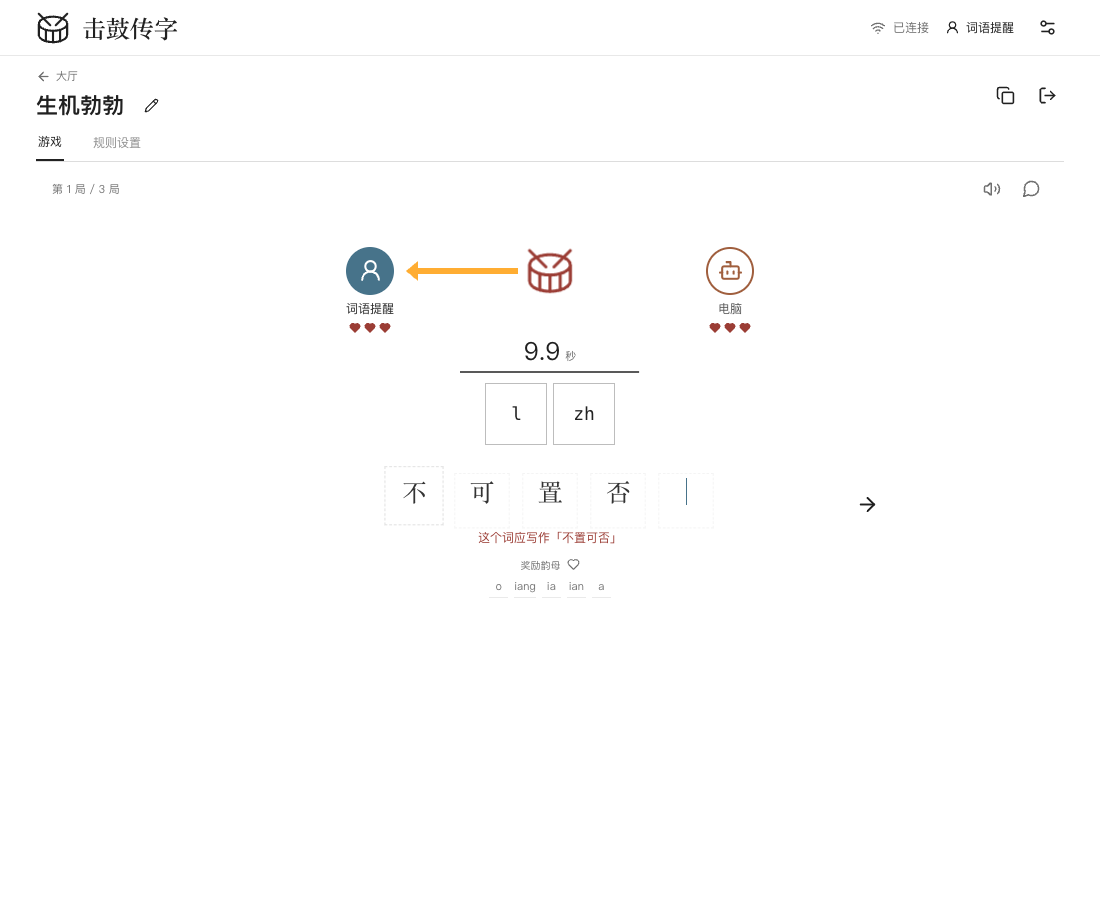
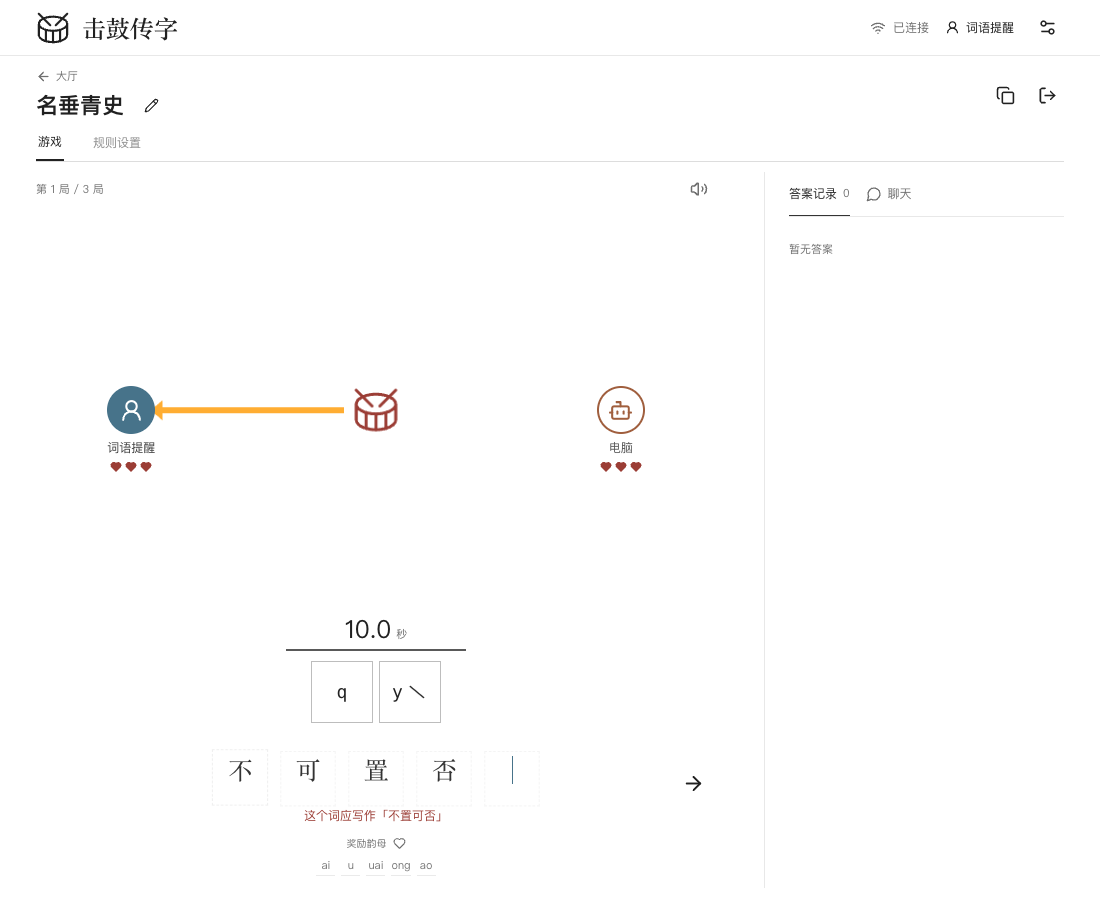
feat: expand responsive room layout and activity sidebar

diff --git a/src/styles.css b/src/styles.css
@@ -33,7 +33,7 @@ h2 { font-size: 17px; font-weight: 600; }
 h3 { font-size: 13px; font-weight: 600; }
 .muted { color: var(--muted); }
 .app-shell { min-height: 100dvh; display: flex; flex-direction: column; }
-.site-header { height: 80px; width: min(1256px, 100%); padding: 0 36px; margin: 0 auto; display: flex; align-items: center; justify-content: space-between; gap: 20px; border-bottom: 1px solid var(--line); }
+.site-header { height: 80px; width: 100%; padding: 0 36px; margin: 0 auto; display: flex; align-items: center; justify-content: space-between; gap: 20px; border-bottom: 1px solid var(--line); }
 .brand { display: inline-flex; align-items: center; gap: 12px; flex-shrink: 0; }
 .brand > span { font: 700 24px 'Noto Serif SC', 'Songti SC', SimSun, serif; }
 .drum-mark { flex-shrink: 0; }
@@ -47,10 +47,13 @@ h3 { font-size: 13px; font-weight: 600; }
 .primary-button:hover:not(:disabled) { background: #414141; border-color: #414141; }
 .secondary-button { background: #fff; color: var(--ink); border: 1px solid #d7d7d7; }
 .secondary-button:hover:not(:disabled) { background: var(--wash); }
-.notice-banner { width: min(1184px, calc(100% - 72px)); min-height: 43px; margin: 16px auto 0; padding: 5px 10px 5px 14px; background: #f5f5f5; border-left: 2px solid #999; display: flex; align-items: center; justify-content: space-between; gap: 10px; font-size: 12px; }
+.notice-banner { width: calc(100% - 72px); min-height: 43px; margin: 16px auto 0; padding: 5px 10px 5px 14px; background: #f5f5f5; border-left: 2px solid #999; display: flex; align-items: center; justify-content: space-between; gap: 10px; font-size: 12px; }
 .notice-banner > span { overflow-wrap: anywhere; }
 .notice-error { border-left-color: #262626; }
-.lobby-page, .room-page { width: min(1184px, calc(100% - 72px)); margin: 0 auto; padding: 45px 0 70px; flex: 1; }
+.lobby-page, .room-page { width: calc(100% - 72px); margin: 0 auto; padding: 24px 0; flex: 1; }
+.lobby-page { display: flex; flex-direction: column; }
+.lobby-cards { flex: 1; align-content: start; }
+.lobby-cards:has(.empty-lobby) { align-content: stretch; }
 .page-heading { display: flex; align-items: center; justify-content: space-between; gap: 20px; margin-bottom: 34px; }
 .page-heading-actions, .empty-actions { display: flex; gap: 8px; flex-wrap: wrap; justify-content: flex-end; }
 .eyebrow { font-family: 'Noto Serif SC', 'Songti SC', serif; color: #898989; font-size: 12px; display: block; margin-bottom: 6px; }
@@ -73,10 +76,10 @@ h3 { font-size: 13px; font-weight: 600; }
 .empty-lobby { min-height: 325px; display: flex; flex-direction: column; align-items: center; justify-content: center; gap: 20px; color: #858585; }
 .empty-lobby .drum-mark { color: #d0d0d0; }
 .empty-lobby p { font-size: 13px; }
-.site-footer { width: min(1184px, calc(100% - 72px)); margin: auto auto 0; padding: 20px 0 26px; display: flex; justify-content: flex-end; align-items: center; color: #a0a0a0; font-size: 11px; border-top: 1px solid var(--line); }
+.site-footer { width: calc(100% - 72px); margin: auto auto 0; padding: 20px 0 26px; display: flex; justify-content: flex-end; align-items: center; color: #a0a0a0; font-size: 11px; border-top: 1px solid var(--line); }
 .site-footer button { font-size: 11px; color: #999; padding: 0; }
 .site-footer button:hover { color: #333; }
-.room-page { padding-top: 24px; }
+.room-page { padding-top: 24px; display: flex; flex-direction: column; }
 .room-heading { display: flex; align-items: center; justify-content: space-between; gap: 20px; margin-bottom: 24px; }
 .back-button { display: inline-flex; align-items: center; gap: 5px; padding: 0; font-size: 11px; color: #8a8a8a; margin-bottom: 11px; }
 .room-heading h1 { font-size: 22px; display: flex; align-items: center; gap: 10px; overflow-wrap: anywhere; }
@@ -284,7 +287,7 @@ h3 { font-size: 13px; font-weight: 600; }
 .chat-form input:focus { outline: none; }
 .chat-form:focus-within { outline: 1px solid #555; }
 .chat-form button { width: 33px; min-width: 33px; display: flex; justify-content: center; align-items: center; padding: 0; }
-.room-settings-layout { max-width: 900px; }
+.room-settings-layout { flex: 1; min-width: 0; display: flex; flex-direction: column; }
 .settings-heading { display: flex; align-items: center; justify-content: space-between; gap: 10px; margin-bottom: 22px; }
 .settings-heading > span { font-size: 11px; }
 .settings-section { padding: 22px 0; border-bottom: 1px solid var(--line); }
@@ -452,6 +455,27 @@ h3 { font-size: 13px; font-weight: 600; }
 .room-game-shell .room-layout { flex: 1; min-height: 0; }
 .room-game-shell .activity-area { max-height: none; min-height: 0; }
 .room-game-shell .history-list, .room-game-shell .chat-list { min-height: 0; max-height: none; }
+@media (min-width: 1001px) {
+  .room-game-shell .room-layout { display: grid; grid-template-columns: minmax(0, 1fr) clamp(300px, 22vw, 430px); gap: 24px; }
+  .room-game-shell .game-area { height: 100%; padding: 0 24px 12px 0; }
+  .room-game-shell .topology-area { flex: 1; align-items: stretch; }
+  .room-game-shell .player-topology { width: min(100%, 900px); max-height: none; min-height: 0; }
+  .room-game-shell .topology-area-many .player-topology { width: min(100%, 760px); }
+  .room-game-shell .activity-area { height: 100%; padding-left: 24px; padding-bottom: 12px; border-left: 1px solid var(--line); }
+  .room-game-shell .activity-area .chat-form { margin-top: 12px; height: 42px; }
+  .room-game-shell .activity-area .chat-form input { font-size: 14px; }
+  .room-game-shell .activity-area .chat-message p { font-size: 14px; }
+  .room-game-shell .activity-area .chat-message > div, .room-game-shell .activity-area .history-row > small { font-size: 11px; }
+  .room-settings-layout .settings-editor { flex: 1; display: flex; flex-direction: column; }
+  .room-settings-layout .settings-editor > fieldset { display: contents; }
+  .room-settings-layout .settings-sections { flex: 1; display: grid; grid-template-columns: minmax(0, 1fr) minmax(0, 1fr); gap: 0 40px; align-content: start; }
+  .room-settings-layout .settings-sections:has(.mode-grid) { display: flex; flex-direction: column; }
+  .room-settings-layout .dictionary-choice { grid-column: 1 / -1; }
+  .room-settings-layout .settings-section:has(.mode-grid) { flex: 1; display: flex; flex-direction: column; min-height: 420px; }
+  .room-settings-layout .mode-grid { flex: 1; }
+  .room-settings-layout .mode-card { flex: 1; }
+  .room-settings-layout .settings-section:has(.slot-grid) { grid-row: span 3; }
+}
 @media (max-width: 1000px) {
   .room-game-shell .room-layout { display: flex; flex-direction: column; gap: 0; }
   .room-game-shell .activity-area { padding-top: 0; border: 0; }

diff --git a/tests/browser/wide-layout.spec.ts b/tests/browser/wide-layout.spec.ts
@@ -1,0 +1,56 @@
+import {expect, test} from '@playwright/test';
+
+test('宽窗口游戏使用完整页面并常驻右侧聊天', async ({page}) => {
+  await page.setViewportSize({width: 1920, height: 1080});
+  await page.goto('./');
+  await page.locator('.page-heading').getByRole('button', {name: '创建房间', exact: true}).click();
+  await expect(page.locator('.room-heading h1')).toBeVisible();
+  const room = await page.locator('.room-page').boundingBox();
+  expect(room!.width).toBeGreaterThan(1800);
+  const stage = await page.locator('.game-area').boundingBox();
+  expect(stage!.y + stage!.height).toBeGreaterThan(1040);
+  await expect(page.locator('.room-layout > .activity-area')).toBeVisible();
+  await expect(page.getByRole('dialog', {name: '答案记录与聊天'})).toHaveCount(0);
+  await page.getByRole('tab', {name: '聊天', exact: true}).click();
+  await expect(page.getByLabel('聊天消息')).toBeVisible();
+  const form = await page.locator('.chat-form').boundingBox();
+  expect(form!.y + form!.height).toBeGreaterThan(1040);
+  expect(await page.evaluate(() => document.documentElement.scrollHeight)).toBeLessThanOrEqual(1080);
+});
+
+test('大屏大厅、规则设置及比赛使用可用宽高，切换窄窗口保留聊天', async ({page}) => {
+  for (const viewport of [{width: 1920, height: 1080}, {width: 3840, height: 2166}]) {
+    await page.setViewportSize(viewport);
+    await page.goto('./');
+    expect((await page.locator('.lobby-page').boundingBox())!.width).toBe(viewport.width - 72);
+    const footer = await page.locator('.site-footer').boundingBox();
+    expect(footer!.y + footer!.height).toBeCloseTo(viewport.height, 0);
+    await page.locator('.page-heading').getByRole('button', {name: '创建房间', exact: true}).click();
+    await expect(page.locator('.room-layout > .activity-area')).toBeVisible();
+    await page.getByRole('tab', {name: '规则设置', exact: true}).click();
+    expect((await page.locator('.room-settings-layout').boundingBox())!.width).toBe(viewport.width - 72);
+    const modes = await page.locator('.mode-grid').boundingBox();
+    expect(modes!.y + modes!.height).toBeGreaterThan(viewport.height - 160);
+    await page.getByRole('tab', {name: '游戏', exact: true}).click();
+    await page.getByRole('button', {name: '添加电脑', exact: true}).click();
+    await page.getByRole('button', {name: '准备', exact: true}).click();
+    await page.getByRole('button', {name: '开始比赛', exact: true}).click();
+    await expect(page.locator('.answer-region')).toBeVisible();
+    await page.getByRole('tab', {name: '规则设置', exact: true}).click();
+    await expect(page.getByRole('button', {name: '部首', exact: true})).toBeDisabled();
+    await expect(page.getByRole('button', {name: '只有音调', exact: true})).toBeDisabled();
+    await page.getByRole('tab', {name: '游戏', exact: true}).click();
+    const bonus = await page.locator('.bonus-progress').boundingBox();
+    expect(bonus!.y + bonus!.height).toBeGreaterThan(viewport.height - 60);
+    await page.getByRole('tab', {name: '聊天', exact: true}).click();
+    await page.getByLabel('聊天消息').fill('切换宽度保留输入');
+    await page.setViewportSize({width: 390, height: 844});
+    await expect(page.locator('.activity-area')).toHaveCount(0);
+    await page.getByRole('button', {name: '查看答案记录与聊天', exact: true}).click();
+    await expect(page.getByLabel('聊天消息')).toHaveValue('切换宽度保留输入');
+    await page.setViewportSize(viewport);
+    await expect(page.locator('.modal-drawer')).toHaveCount(0);
+    await expect(page.getByLabel('聊天消息')).toHaveValue('切换宽度保留输入');
+    await page.getByRole('button', {name: '离开房间', exact: true}).click();
+  }
+});

diff --git a/src/App.tsx b/src/App.tsx
@@ -251,7 +251,7 @@ function PlayerTopology({ room, self, isHost, busy, connected, act, seconds }: {
     return () => observer.disconnect();
   }, [count]);
   const radius = count === 2 ? Math.max(35, layout.width * .36) : count >= 8
-    ? Math.min(layout.width / 2 - 18, 92)
+    ? Math.min(layout.width / 2 - 18, Math.max(92, layout.height / 2 - 65))
     : Math.max(45, Math.min(layout.width / 2 - 32, layout.height / 2 - 55));
   const [accepted, setAccepted] = useState<AcceptedAnswer | null>(null);
   const lastAccepted = useRef(room.acceptedAnswer?.id);
@@ -465,7 +465,7 @@ function RoomGame({ room, self, isHost, busy, connected, act, send, setError }: 
   const inputColor = combiningAnswer?.color ?? currentPlayer?.color ?? self?.color ?? '#47738A';
   const activity = <aside className="activity-area"><div className="activity-tabs" role="tablist"><button role="tab" type="button" aria-selected={sideTab === 'history'} onClick={() => setSideTab('history')}>答案记录<span>{room.history.length}</span></button>
     <button role="tab" type="button" aria-selected={sideTab === 'chat'} onClick={() => setSideTab('chat')}><MessageCircle size={16} />聊天</button>
-    <IconButton label="关闭记录与聊天" onClick={closeActivity}><X size={18} /></IconButton></div>
+    {narrowViewport && <IconButton label="关闭记录与聊天" onClick={closeActivity}><X size={18} /></IconButton>}</div>
     {sideTab === 'history' ? <div className="history-list" ref={historyList}>{room.history.length ? room.history.map((item, index) => <div className="history-row" key={`${item.at}:${index}`}>
       <span>{item.word}</span><small>{item.nickname}</small></div>) : <p className="activity-empty">暂无答案</p>}</div>
       : <><div className="chat-list" ref={chatList}>{room.chat.length ? room.chat.map(message => <div className="chat-message" key={message.id}>
@@ -484,7 +484,7 @@ function RoomGame({ room, self, isHost, busy, connected, act, send, setError }: 
     <section className="game-area"><div className="game-summary"><span aria-label="比赛局数">第 {room.round || 1} 局 / {room.settings.bestOf} 局</span>
       <div className="game-summary-tools">
         <IconButton label={audioEnabled ? '静音' : '打开音效'} onClick={() => { const enabled = !audioEnabled; setAudioEnabled(enabled); audio.setEnabled(enabled); if (enabled) audio.play('turn'); }}>{audioEnabled ? <Volume2 size={18} /> : <VolumeX size={18} />}</IconButton>
-        <IconButton label={`${narrowViewport ? '查看' : '打开'}答案记录与聊天`} onClick={() => setActivityOpen(true)}><MessageCircle size={19} /></IconButton>
+        {narrowViewport && <IconButton label="查看答案记录与聊天" onClick={() => setActivityOpen(true)}><MessageCircle size={19} /></IconButton>}
       </div></div>
       <PlayerTopology room={room} self={self} isHost={isHost} busy={busy} connected={connected} act={act} seconds={seconds} />
       {(room.phase === 'playing' || activeCompletion) && shownPrompt ? <>
@@ -518,6 +518,7 @@ function RoomGame({ room, self, isHost, busy, connected, act, send, setError }: 
             onClick={() => act({ type: 'start', data: {} })}><ArrowRight size={17} />{room.phase === 'between' ? '开始下一局' : room.phase === 'finished' ? '开始新比赛' : '开始比赛'}</button>}</div>
       </div>}
     </section>
-    {activityOpen && <Modal title="答案记录与聊天" onClose={closeActivity} showHeading={false} drawer allowInteraction>{activity}</Modal>}
+    {!narrowViewport && activity}
+    {narrowViewport && activityOpen && <Modal title="答案记录与聊天" onClose={closeActivity} showHeading={false} drawer allowInteraction>{activity}</Modal>}
   </div>;
 }

diff --git a/src/SettingsEditor.tsx b/src/SettingsEditor.tsx
@@ -84,7 +84,7 @@ export function SettingsEditor({ value, onChange, disabled, preview, onPreview, 
   };
   return <div className="settings-editor">
     <div className="settings-heading"><h2>{custom ? '自定义规则' : '房间规则'}</h2>{custom && <button type="button" className="back-button" onClick={() => setEditingCustom(false)}><ArrowLeft size={15} />游戏模式</button>}{disabled && <span className="muted">本局规则已确定</span>}</div>
-    <fieldset disabled={disabled || busy}>
+    <fieldset disabled={disabled || busy}><div className="settings-sections">
       <section className="settings-section dictionary-choice">
         <h3>答案词库</h3><div className="segments" role="group" aria-label="答案词库">
           {([['all', '全部词语'], ['words', '普通词语'], ['idioms', '成语']] as const).map(([id, label]) => <button type="button" aria-pressed={value.dictionary === id} key={id} onClick={() => updateDictionary(id)}>{label}</button>)}
@@ -153,7 +153,7 @@ export function SettingsEditor({ value, onChange, disabled, preview, onPreview, 
           </div>
         </section>
       </>}
-    </fieldset>
+    </div></fieldset>
     {problems.length > 0 && <div className="field-errors" role="alert">{problems.map(problem => <p key={problem}>{problem}</p>)}</div>}
     {custom && <><div className="settings-actions"><button type="button" className="secondary-button" disabled={!validate.success || busy} onClick={onPreview}><Eye size={16} />预览提示</button>
         <button type="button" className="secondary-button" disabled={!validate.success || busy} onClick={exportRules}><Download size={16} />导出规则</button>

diff --git a/docs/jieba-supplement-research-2026-10-13.md b/docs/jieba-supplement-research-2026-10-13.md
@@ -1,0 +1,76 @@
+# jieba 补充词库研究
+
+日期：2026-10-13，Asia/Shanghai。使用 Skill：research。
+
+## 收录建议
+
+建议把 jieba 默认词典纳入补充候选来源。经过独立词语审核、普通词语范围审核和完整读音核查的条目，可以补充当前 CC-CEDICT 的覆盖。最终有效答案保存为可以直接维护、重新构建后持续生效的补充词语文件，并逐项记录词形来源、完整读音来源和审核依据。
+
+全量直接并入与“普通词语＋成语，排除口语组合与专业名称”的既定要求不符。jieba 的分词词典缺少释义和拼音字段，词性标签与词频也不能完成这些审核。本轮建议属于资料研究，补充词语来源和审核规则尚待用户决定；产品词库保持当前内容。[S1][S3][S7][S8][S10]
+
+## 当前接入情况
+
+项目已经保存固定版本 jieba 默认词典、MIT License 和来源摘要。`scripts/build-data.ts` 读取 `data/sources/jieba-dict.txt`，为通过现有 CC-CEDICT 收录检查的条目添加 `frequency`，并在 `source` 中添加 `jieba` 来源标记。`shared/rules.ts` 的 `cpuAnswer` 在合法候选中按这个词频排序。构建循环的词形与读音均来自 CC-CEDICT，jieba 当前承担常见程度参考。[S8]
+
+当前生成词库包含 89,431 个词语，其中 65,346 个与 jieba 默认词典精确相交；24,085 个当前有效词语没有 jieba 记录。原始 CC-CEDICT 使用 `2026-10-12T08:13:53Z` 快照。本轮全文件统计采用当前项目文件，结果保存在 `.research/jieba-supplement-2026-10-13/audit.json`。[S7][S8]
+
+## 官方资料与覆盖范围
+
[1 lines of base64/hex data omitted]
+
+默认词典完整文件为 5,071,852 bytes，包含 349,046 条记录、349,045 个唯一词形。每条记录提供词语、整数词频和词性；二至九个汉字的唯一词形共有 337,081 个。该范围仅检查 Unicode Han 字符与长度，尚未审核简体词形、普通词语身份、专名或专业领域。[S1][S3][S7]
+
+与当前有效答案比较，jieba 有 271,735 个未收录候选。其中 13,576 个在原始 CC-CEDICT 中存在同形记录，258,159 个在原始 CC-CEDICT 中没有同形记录。前一部分需要查明现有规则未收录的原因，后一部分需要取得额外的词语级完整读音。271,735 表示候选差集数量，最终符合游戏规则的新增数量仍需审核。[S7][S8]
+
+词频下限可以调整审核队列的数量。本轮统计中，下限为 5 时有 75,964 个当前未收录候选，下限为 10 时有 49,776 个，下限为 50 时有 15,784 个，下限为 100 时有 9,207 个。“寻路”的词频为 9；提高下限会直接影响这个用户已关注的词语。上述下限均为研究统计，用户尚未确定相关收录条件。[S7]
+
+## “寻路”的补充价值
+
+固定 jieba 默认词典存在记录 `寻路 9 v`；当前原始 CC-CEDICT 和生成词库均没有“寻路”。因此 jieba 能够提供这个词形作为补充候选。[S3][S7]
+
+jieba 记录没有“寻路”的普通话读音、释义、专业领域标签或独立词语审核依据。允许它成为正式答案，需要同时保存可信的完整读音与符合本项目收录范围的依据。当前 `WordRules` 要求每个 `WordEntry` 至少包含一套完整 `Reading`，且 `syllables`、`initials`、`finals`、`tones` 的数量分别与汉字数量一致。[S7][S8]
+
+## 词语质量的核实边界
+
+jieba 官方 README 将默认词典用于 DAG 和基于词频的分词路径选择，并允许通过 `add_word`、`del_word` 和 `suggest_freq` 改变分词结果。`gen_pfdict` 和 `calc` 的实现同样使用词频计算分词概率。因此词频适合用于排序参考，不能直接代表当前中文使用次数、语言规范等级或游戏收录资格。[S1][S4]
+
+官方 README 以 `今天天气 3 i` 对应的表达说明如何调整或删除分词记录；作者 `fxsjy` 在官方 issue 的 2013-04-26 评论中说明，默认词典包含不符合正常词语标准的记录。这些是官方说明与当前固定资料中可核查的质量边界。[S1][S3][S5][S7]
+
+当前未收录候选中，104,901 个使用 `nr`、`nrfg`、`nrt`、`ns`、`nt` 或 `nz` 标签。这些标签可以提示审核方向，但不能单独判定游戏资格。原始词典中“冰淇淋”的标签为 `nr`，“知识”的标签为 `v`；当前 CC-CEDICT 释义分别为 `ice cream` 与 `knowledge`，两者已经进入游戏词库。[S7]
+
+普通名词标签与一定词频同样不足以排除专业名称。原始记录“精神分裂症”具有词频 44、标签 `n`，“乙酰胆碱”具有词频 51、标签 `l`；两者的 CC-CEDICT 释义对应医学与化学名称，当前产品词库已经依照收录规则排除。因此补充条目应继续遵守现有明确排除设置，并保存可核查的词义依据。[S7][S8]
+
+补充候选还涉及 1,447 个当前 `dictionary.characters` 没有记录的汉字。这个数量来自全部候选差集，正式新增条目涉及的数量需按最终审核集合计算。词语扩充必须重新生成所用汉字资料，并检查提示生成、部首与字形部件匹配需要的真实笔画映射。[S7][S8]
+
+## 许可条件
+
+jieba 官方 README、`setup.py` 与完整 LICENSE 均声明 MIT License；`setup.py` 将默认词典随软件包发布。MIT 允许免费使用、复制、修改、发布、分发及销售，因此公开授权允许网页游戏和微信小程序商业使用。相应资料发行时需要保留 `Copyright (c) 2013 Sun Junyi` 与 MIT License 全文；项目已保存于 `licenses/Jieba.txt`。[S1][S2][S9]
+
+本轮核查确认了官方公开许可与发行范围。默认词典没有逐条提供最初语料来源、词语释义引证或人工审核记录；上述许可核查范围限定于官方提供的项目资料。[S1][S2][S3][S9]
+
+补充词语若配合其他拼音或释义数据，新增来源需要独立核查许可、版本、署名和修改说明。当前 CC-CEDICT 派生的词语与拼音部分继续遵循项目现有 CC BY-SA 4.0 说明；jieba 原始词典与词频继续保留 MIT 来源说明。[S8]
+
+## 实现要求
+
+补充接入需要建立明确的有效词语文件。每项提供 `word`、允许的完整读音、普通词语或成语身份、来源和审核依据；构建过程读取该文件，合并词形与完整读音，并继续应用 `excludedWords`。确认采用的条目缺少读音、字段数量不一致或来源摘要无效时，构建立即抛出错误。[S8]
+
+jieba 的 `i` 标签不能直接生成游戏的 `idiom` 分类，分类需记录独立依据。新增多音词按同一套完整读音参与全部拼音条件，原始声调及轻声继续沿用现有规则。生成、草稿、提交与电脑答案读取相同的最终集合。[S1][S7][S8][S10]
+
+本轮没有确定新的词语级拼音来源。单个汉字的默认读音无法确认词语中的多音字与轻声，正式补充资料需要完成词语级读音核查。全部补充词形不能仅依靠当前 CC-CEDICT 精确相交，因为 258,159 个候选在该原始来源中没有记录。[S7][S8][S10]
+
+完成接入后，需要针对真实收录数据验证新增词语、明确排除项、多音词完整读音、成语分类、部首与字形部件提示、电脑选词排序，以及 Node 与 Cloudflare 使用同一份生成资料。词库规模变化也需要重新测量数据文件大小、运行内存和条件候选查询时间。[S8]
+
+## 核查记录与来源
+
+官方 README、LICENSE、`setup.py`、分词实现、词性字段读取实现已全文读取；官方 issue 正文与全部 54 条评论已经完整获取与读取。默认词典使用项目已有 `csv-parse` 完整读取，项目与 CC-CEDICT JSON 使用 `JSON.parse` 完整读取。研究资料、统计脚本与结果保存在被 `.gitignore` 忽略的 `.research/jieba-supplement-2026-10-13/`。执行 `node .research/jieba-supplement-2026-10-13/audit.mjs` 可以重新核查本文统计。[S7]
+
+- [S1：jieba 固定版本 README](https://raw.githubusercontent.com/fxsjy/jieba/67fa2e36e72f69d9134b8a1037b83fbb070b9775/README.md)。
+- [S2：jieba 固定版本完整 MIT License](https://raw.githubusercontent.com/fxsjy/jieba/67fa2e36e72f69d9134b8a1037b83fbb070b9775/LICENSE)。
+- [S3：jieba 固定版本默认词典](https://raw.githubusercontent.com/fxsjy/jieba/67fa2e36e72f69d9134b8a1037b83fbb070b9775/jieba/dict.txt)。
+- [S4：jieba 固定版本分词与词频实现](https://raw.githubusercontent.com/fxsjy/jieba/67fa2e36e72f69d9134b8a1037b83fbb070b9775/jieba/__init__.py)。
+- [S5：jieba 官方 issue 的全部评论](https://api.github.com/repos/fxsjy/jieba/issues/7/comments?per_page=100)。
+- [S6：jieba 官方 master 提交资料](https://api.github.com/repos/fxsjy/jieba/commits/master)，本轮获取结果保存在 `.research/jieba-supplement-2026-10-13/commit.json`。
+- S7：本轮全文件统计 `.research/jieba-supplement-2026-10-13/audit.json`；原始资料为 `data/sources/jieba-dict.txt`、`data/sources/cc-cedict-2026-10-12.json` 与 `data/dictionary.json`。
+- S8：项目当前实现与许可记录：`scripts/build-data.ts`、`shared/rules.ts`、`shared/types.ts`、`data/policy.json`、`data/README.md`、`data/sources.json` 与 `licenses/Jieba.txt`。
+- [S9：jieba 固定版本安装包定义](https://raw.githubusercontent.com/fxsjy/jieba/67fa2e36e72f69d9134b8a1037b83fbb070b9775/setup.py)。
+- S10：项目当前要求：`docs/project-discussion.md`、`docs/spec.md` 与 `docs/word-admission-2026-10-12.md`。

diff --git a/docs/verification.md b/docs/verification.md
@@ -200,3 +200,11 @@ Render 与日常词语研究已经保存，`render.yaml` 的免费 Blueprint 配
 - Cloudflare 版本 bdd043e4-e2fb-4aef-8a42-b5b8a0488bf8 的真实公网双人流程通过默认奖励韵母、个人目标、自动提交、同题确认与重连。
 - Cloudflare 最终版本 d55e5ea0-7d5b-438e-8eb8-4a07f6a8b063 保持奖励部首与字形部件分别计算。
 - main 自动触发私有仓库的 GitHub Actions，65 项检查与 Pages 产物检查通过，随后个人网站完成构建和 Pages 发布。公开网页最新资源、创建房间、分享加入、默认奖励韵母和字形 ZIP 数据范围通过。
+
+## 2026-10-13 页面空间与右侧常驻聊天
+
+- 1920px 宽房间通过真实浏览器复现 1184px 的宽度限制；修改后大厅与房间均使用视口宽度减去两侧 36px，手机沿用对应间距。
+- 43 项完整 Chrome 检查通过，覆盖准备与比赛页面高度、多人菜单、原生 IME、提示结合与返回、轻声、重复词提示及手机键盘可见区域。
+- 大屏专项检查覆盖 1920×1080 与 3840×2166；游戏、侧栏与输入保持屏幕内，大厅底栏位于页面底部，规则入口扩展高度，窄窗口抽屉和宽窗口常驻面板切换保留聊天输入。新增局内 fieldset disabled 检查通过。
+- TypeScript 与构建通过，5,778 个发布文件及字形 ZIP 通过许可数据范围检查。两张收到的 2048×1155 附件已保存，BombParty 对应图片另存参考素材目录。
+- jieba 完整官方资料、MIT 许可与候选差集统计已核查；研究只提供建议，本轮没有变更有效答案集合。

diff --git a/docs/spec.md b/docs/spec.md
@@ -121,3 +121,10 @@
 - 答案最短字数与当前提示格数不相等时，答案区域显示“答案最短为 x 个字”；相等时省略。选择成语词库后的各个模式默认四格，自定义可以删除格子并保留四个汉字答案下限。
 - 奖励默认开启，类型优先级为韵母、部首、声母。提示中已经使用的类型从选项中移除，全部使用时关闭奖励并显示说明；自定义可选择剩余类型。每名参赛玩家从候选中获得五个不同的目标；集齐增加一个生命，重新抽取并优先使用上一组没有出现的候选。候选不足五个时使用全部候选；候选数较小时，玩家之间的目标可以相同。
 - 自定义奖励开关打开时才显示候选选择；关闭不分配目标、不增加生命。目标、收集进度和重新抽取结果随房间状态持久保存。
+
+## 2026-10-13 页面空间与常驻侧栏
+
+- 大厅、规则设置与游戏页面使用屏幕可用宽度和高度，保留必要间距。游戏准备、比赛与结果在可用高度内显示，答案区域与生命奖励位于页面下方。
+- 宽于 1000px 的游戏页面分为游戏区域和右侧答案记录/聊天区域。右侧常驻，输入区域保持在底部，列表内部滚动；窄窗口使用可继续操作游戏的右侧覆盖抽屉。
+- 切换宽窄窗口保留活动选项、聊天输入和真实房间状态。多人头像与传鼓继续按圆周角度排列。
+- 个人网站仓库保持现有代码，项目发布只接收经过检查的构建产物。

diff --git a/docs/personal-site-artifact-audit-2026-10-13.md b/docs/personal-site-artifact-audit-2026-10-13.md
@@ -1,0 +1,11 @@
+# 个人网站发布范围核查
+
+日期：2026-10-13，Asia/Shanghai。
+
+通过 GitHub API 完整获取 Crisply2404/Crisply2404.github.io 的 main 文件列表，未发现 chuan-zi 源目录或 chuan-zi-source 构建目录。读取个人网站的完整 deploy.yml：GitHub Actions 读取私有仓库，在独立目录生成产物，将该目录下的 dist 复制到网页 dist/chuan-zi。Upload Pages artifact 仅上传 dist。workflow 没有向个人网站仓库提交项目文件的操作。
+
+chuan-zi 私有仓库的 main 自动发布 workflow 运行类型检查、真实规则与联机测试、Pages 构建，再使用固定 commit 触发个人网站构建。公开产物检查在构建期间读取全部文件与 ZIP 内容，只允许网页资源、音频、字形数据和许可文本；TypeScript、source map、项目文档与源目录禁止进入产物。
+
+公开网页必须提供浏览器运行所需的构建 JavaScript；项目的 React、TypeScript、服务端源码、私有配置和原始开发目录保留在私有仓库。
+
+本次核查对象是公开仓库当前 main 文件列表、两个 workflow、产物检查脚本与本机生成的全部 dist 文件。GitHub API 的列表保存于 .research/personal-site-tree.txt。

diff --git a/docs/project-discussion.md b/docs/project-discussion.md
@@ -251,6 +251,14 @@
 - 聊天记录保留完整用户原文和每轮 assistant 最终回复；期间 steer 属于同一轮，skill 引用仅保留名称。
 - 个人网站发布内容限定为网页构建产物与资料许可，构建检查同时检查字形 ZIP 中的全部文件。
 
+## 2026-10-13 页面空间与宽窗口侧栏
+
+- 页面使用屏幕可用宽度与高度，游戏准备、比赛与结果保留屏幕内的必要操作，大厅与规则设置同样利用可用空间。
+- 宽于 1000px 的房间游戏页面常驻右侧答案记录与聊天，聊天输入位于侧栏底部。窄窗口继续采用右侧覆盖式抽屉。
+- 个人网站仓库与网页发布内容限定为构建产物，chuan-zi 项目源码保持私有。
+- jieba 是否作为补充词库需要根据词条质量、读音与许可核查后回答，本轮问题未要求改变词库。
+- 研究建议将 jieba 作为审核后的补充候选，完整读音、词语身份与日常使用范围核查后再收录；本轮保留现有答案集合。研究见 jieba-supplement-research-2026-10-13.md。
+
 ## 资料链接
 
 - [聊天记录](conversation.md)

diff --git a/docs/tasks.md b/docs/tasks.md
@@ -44,6 +44,9 @@
 | 52：寻路收录核查 | resolved | diagnosing-bugs | CC-CEDICT 无此词，jieba 有词频记录；已核查匹配失败原因 |
 | 53：main 开发与网页自动发布 | resolved | research、tdd、code-review | main 自动触发成功，个人网站仅发布产物；公开网页创建、加入、奖励与资料包检查通过 |
 | 54：聊天记录格式 | resolved | writing-for-agents | 81 条用户消息保持顺序，assistant 记录仅保留最终回复，skill 仅保留名称 |
+| 55：页面空间与宽窗口侧栏 | in-progress | diagnosing-bugs、tdd、code-review | 1920px 房间宽度实测 1184px，宽窗口改为常驻右侧活动栏，验证手机与各页面 |
+| 56：jieba 补充词库评估 | resolved | research | 建议采用审核后的候选，许可与完整差集统计已核查，词库内容保持当前状态 |
+| 57：个人网站源码检查 | resolved | research | 公开 main 文件列表没有项目源目录；workflow 仅发布 dist，5,778 个产物与 ZIP 检查通过 |
 
 ## 用户已经确定的要求
 
